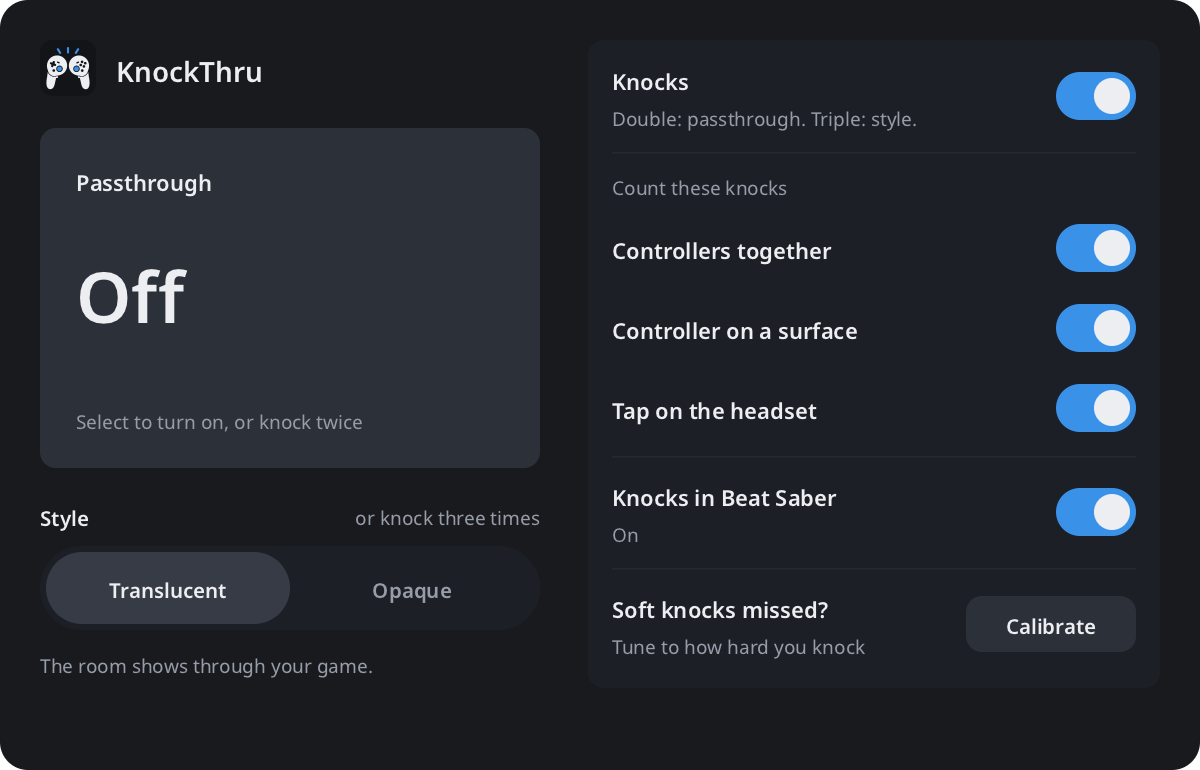
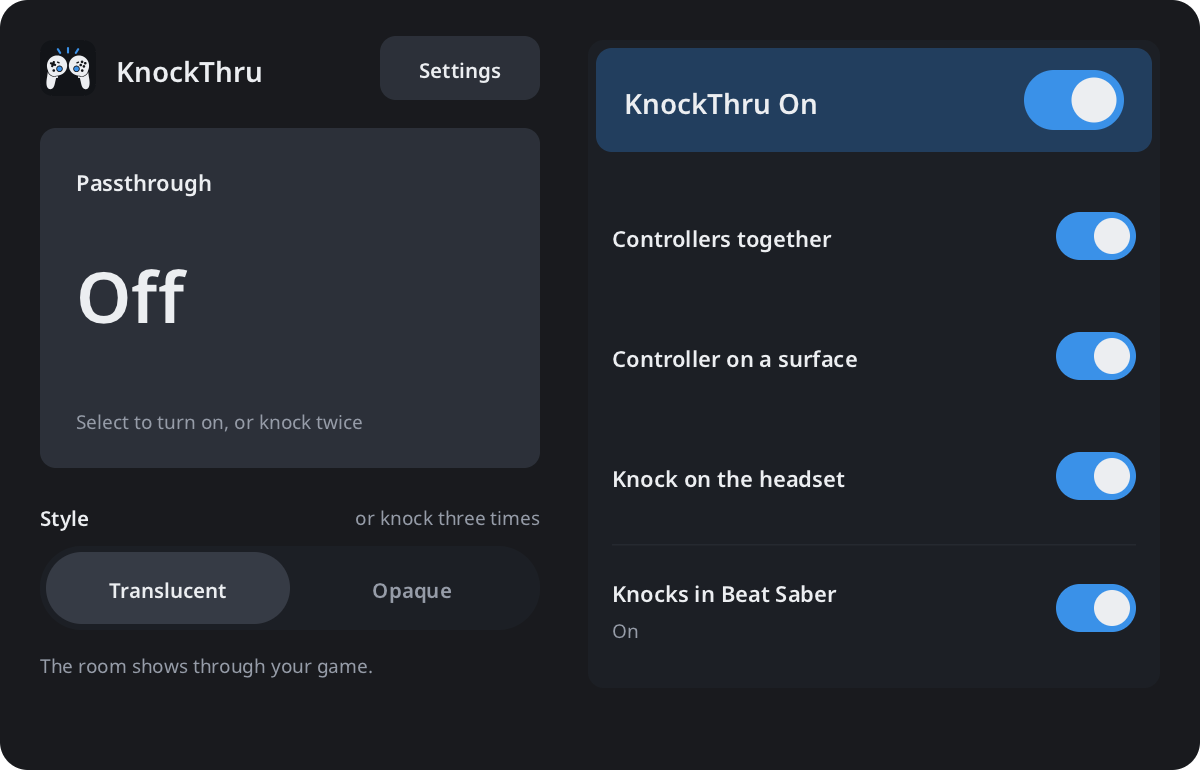
Render the README panel images from the current panel and call every gesture a knock

diff --git a/scripts/readme_media.py b/scripts/readme_media.py
@@ -137,41 +137,41 @@ def keyframes(t, keys):
     return keys[-1][1]
 
 
-def knock_times(taps, start=FIRST_KNOCK):
-    return [start + i * KNOCK_GAP for i in range(taps)]
+def knock_times(count, start=FIRST_KNOCK):
+    return [start + i * KNOCK_GAP for i in range(count)]
 
 
-def knock_motion(t, taps, start=FIRST_KNOCK):
+def knock_motion(t, count, start=FIRST_KNOCK):
     """Returns how far the controller is from the contact point, from 0 (touching) to 1 (rest).
 
     Each knock pulls back a little, speeds up into the contact, and bounces off
     with a slowing rebound. After the last knock it settles back to rest.
     """
-    hits = knock_times(taps, start)
-    keys = [(hits[0] - 0.3, 1.0, ease_in_out), (hits[0] - 0.13, 1.18, ease_in_out), (hits[0], 0.0, ease_in)]
-    for hit in hits[1:]:
-        keys += [(hit - KNOCK_GAP / 2, 0.55, ease_out), (hit, 0.0, ease_in)]
-    keys.append((hits[-1] + 0.35, 1.0, ease_out_back))
+    contacts = knock_times(count, start)
+    keys = [(contacts[0] - 0.3, 1.0, ease_in_out), (contacts[0] - 0.13, 1.18, ease_in_out), (contacts[0], 0.0, ease_in)]
+    for contact in contacts[1:]:
+        keys += [(contact - KNOCK_GAP / 2, 0.55, ease_out), (contact, 0.0, ease_in)]
+    keys.append((contacts[-1] + 0.35, 1.0, ease_out_back))
     return keyframes(t, keys)
 
 
-def impact(t, taps, start=FIRST_KNOCK):
-    """Returns how far the latest impact has played, from 0 (just hit) to 1 (faded), or None."""
-    past = [hit for hit in knock_times(taps, start) if hit <= t < hit + 0.3]
+def impact(t, count, start=FIRST_KNOCK):
+    """Returns how far the latest impact has played, from 0 (the moment of contact) to 1 (faded), or None."""
+    past = [contact for contact in knock_times(count, start) if contact <= t < contact + 0.3]
     return (t - past[-1]) / 0.3 if past else None
 
 
 def pass_at(t):
     """Returns (knocks, time within the pass, pass length) for a time in the loop."""
-    for taps, length in PASSES:
+    for count, length in PASSES:
         if t < length:
-            return taps, t, length
+            return count, t, length
         t -= length
     return PASSES[-1][0], PASSES[-1][1], PASSES[-1][1]
 
 
-def action_time(taps):
-    return knock_times(taps)[-1] + WAIT
+def action_time(count):
+    return knock_times(count)[-1] + WAIT
 
 
 def pass_fade(lt, length, edge=0.25):
@@ -226,13 +226,13 @@ def hero(panel_dir):
         panels[name] = flat
     big, small = font(34, bold=True), font(22)
 
-    def frame(t, state, after, taps, buzzes, before=None):
+    def frame(t, state, after, count, buzzes, before=None):
         """One frame of a scene. state is (panel, caption, detail). after is the state once the knocks act.
 
         At the action the panel cross-fades. The old caption fades out, then the new one rises in.
         """
-        action = knock_times(taps)[-1] + WAIT if taps else None
-        fade = ease_in_out((t - action) / 0.3) if taps else 0.0
+        action = knock_times(count)[-1] + WAIT if count else None
+        fade = ease_in_out((t - action) / 0.3) if count else 0.0
         image = Image.new("RGB", (width, caption_height + panel_height), BACKGROUND)
         panel = panels[state[0]] if fade == 0 else Image.blend(panels[state[0]], panels[after[0]], fade)
         image.paste(panel, (0, caption_height))
@@ -247,19 +247,19 @@ def hero(panel_dir):
         rise = 8 * (1 - ease_out(shown)) if rising else 0
         draw.text((40, 34 + rise), caption[1], font=big, fill=mix(TEXT, shown))
         draw.text((40, 86 + rise), caption[2], font=small, fill=mix(DIM, shown))
-        gap = knock_motion(t, taps) if taps else 1.0
-        played = impact(t, taps) if taps else None
-        shake = buzz(t, action, buzzes) if taps else 0.0
+        gap = knock_motion(t, count) if count else 1.0
+        played = impact(t, count) if count else None
+        shake = buzz(t, action, buzzes) if count else 0.0
         knock_pair(image, draw, width - 150, 50, 120, gap, played, 26, scale=0.8, shake=shake)
         return image
 
     frames = []
 
-    def scene(state, duration, after=None, taps=0, buzzes=0, before=None):
-        frames.extend(frame(i / FPS, state, after or state, taps, buzzes, before) for i in range(seconds(duration)))
+    def scene(state, duration, after=None, count=0, buzzes=0, before=None):
+        frames.extend(frame(i / FPS, state, after or state, count, buzzes, before) for i in range(seconds(duration)))
 
     off = ("off", "You're in VR", "Passthrough is off.")
-    knock_on = ("off", "Knock twice", "Tap your controllers together.")
+    knock_on = ("off", "Knock twice", "Knock your controllers together.")
     on = ("on", "Your room appears", "Passthrough on, see-through style.")
     knock_style = ("on", "Knock three times", "Switch the style.")
     opaque = ("opaque", "Only the room", "Opaque style hides the game.")
@@ -267,8 +267,8 @@ def hero(panel_dir):
     see_through = ("on", "See-through again", "Passthrough on, see-through style.")
     knock_off = ("on", "Knock twice", "Back to the game.")
 
-    def knock_scene(before, state, after, taps, buzzes, hold):
-        scene(state, knock_times(taps)[-1] + WAIT + hold, after, taps, buzzes, before)
+    def knock_scene(before, state, after, count, buzzes, hold):
+        scene(state, knock_times(count)[-1] + WAIT + hold, after, count, buzzes, before)
 
     scene(off, 1.0)
     knock_scene(off, knock_on, on, 2, 1, 1.8)
@@ -288,18 +288,18 @@ def knock_kinds():
     titles = {2: "Knock twice: Room View turns on or off", 3: "Knock three times: the style switches"}
     frames = []
     for i in range(seconds(LOOP)):
-        taps, t, length = pass_at(i / FPS)
+        count, t, length = pass_at(i / FPS)
         image = Image.new("RGB", (cell * 3, height + header), BACKGROUND)
         draw = ImageDraw.Draw(image)
         shown = pass_fade(t, length)
-        w = draw.textlength(titles[taps], font=title)
-        draw.text(((cell * 3 - w) / 2, 14 + 6 * (1 - shown)), titles[taps], font=title, fill=mix(TEXT, shown))
+        w = draw.textlength(titles[count], font=title)
+        draw.text(((cell * 3 - w) / 2, 14 + 6 * (1 - shown)), titles[count], font=title, fill=mix(TEXT, shown))
 
         cards = Image.new("RGB", (cell * 3, height), BACKGROUND)
         draw = ImageDraw.Draw(cards)
         for c in range(3):
             draw.rounded_rectangle([c * cell + 10, 10, c * cell + cell - 10, height - 10], radius=18, fill=SURFACE)
-        gap, played, shake = knock_motion(t, taps), impact(t, taps), buzz(t, action_time(taps), taps - 1)
+        gap, played, shake = knock_motion(t, count), impact(t, count), buzz(t, action_time(count), count - 1)
 
         # Controllers together.
         knock_pair(cards, draw, cell // 2, 95, 150, gap, played, 30, shake=shake, base=SURFACE)
@@ -311,7 +311,7 @@ def knock_kinds():
               angle=round(165 - 12 * gap))
         draw.rectangle([cx - 130, table_y, cx + 130, table_y + 16], fill=TABLE)
 
-        # The left controller taps the left side of the headset.
+        # The left controller count the left side of the headset.
         cx, cy, hw, h = 2 * cell + cell // 2, 110, 160, 130
         hx = cx + 70  # headset center
         edge = hx - hw / 2
@@ -320,7 +320,7 @@ def knock_kinds():
         place(cards, "controller-left", edge - head_radius(h) * 0.95 - 30 * gap + shake, cy, h,
               angle=round(-30 - 8 * gap))
 
-        for c, text in enumerate(("Controllers together", "Controller on a surface", "Tap on the headset")):
+        for c, text in enumerate(("Controllers together", "Controller on a surface", "Knock on the headset")):
             w = draw.textlength(text, font=label)
             draw.text((c * cell + (cell - w) / 2, 248), text, font=label, fill=TEXT)
         image.paste(cards, (0, header))
@@ -341,10 +341,10 @@ def timing():
     def x_at(t):
         return left + (right - left) * t / span
 
-    def strip(now, taps):
-        knocks = knock_times(taps)
-        action = action_time(taps)
-        next_knock, done, buzzed = words[taps]
+    def strip(now, count):
+        knocks = knock_times(count)
+        action = action_time(count)
+        next_knock, done, buzzed = words[count]
         image = Image.new("RGB", (width, height), BACKGROUND)
         draw = ImageDraw.Draw(image)
         for k in range(round(span * 10) + 1):  # a tick every 0.1 s
@@ -385,7 +385,7 @@ def timing():
             shown = ease_out((now - action) / 0.3)
             slide = 12 * (1 - shown)
             draw.text((x + 26 - slide, axis_y - 44), done, font=bold, fill=mix(ACCENT, shown), anchor="lm")
-            draw.text((x + 26 - slide + buzz(now, action, taps - 1) * 1.5, axis_y - 14), buzzed,
+            draw.text((x + 26 - slide + buzz(now, action, count - 1) * 1.5, axis_y - 14), buzzed,
                       font=small, fill=mix(DIM, shown), anchor="lm")
 
         # Playhead: a light line with a small marker on top, until the action.
@@ -398,8 +398,8 @@ def timing():
     frames = []
     empty = strip(0.0, 2)
     for i in range(seconds(LOOP)):
-        taps, now, length = pass_at(i / FPS)
-        image = strip(now, taps)
+        count, now, length = pass_at(i / FPS)
+        image = strip(now, count)
         if now > length - 0.3:  # each pass fades to an empty strip before the next
             image = Image.blend(image, empty, ease_in_out((now - (length - 0.3)) / 0.3))
         frames.append(image)
